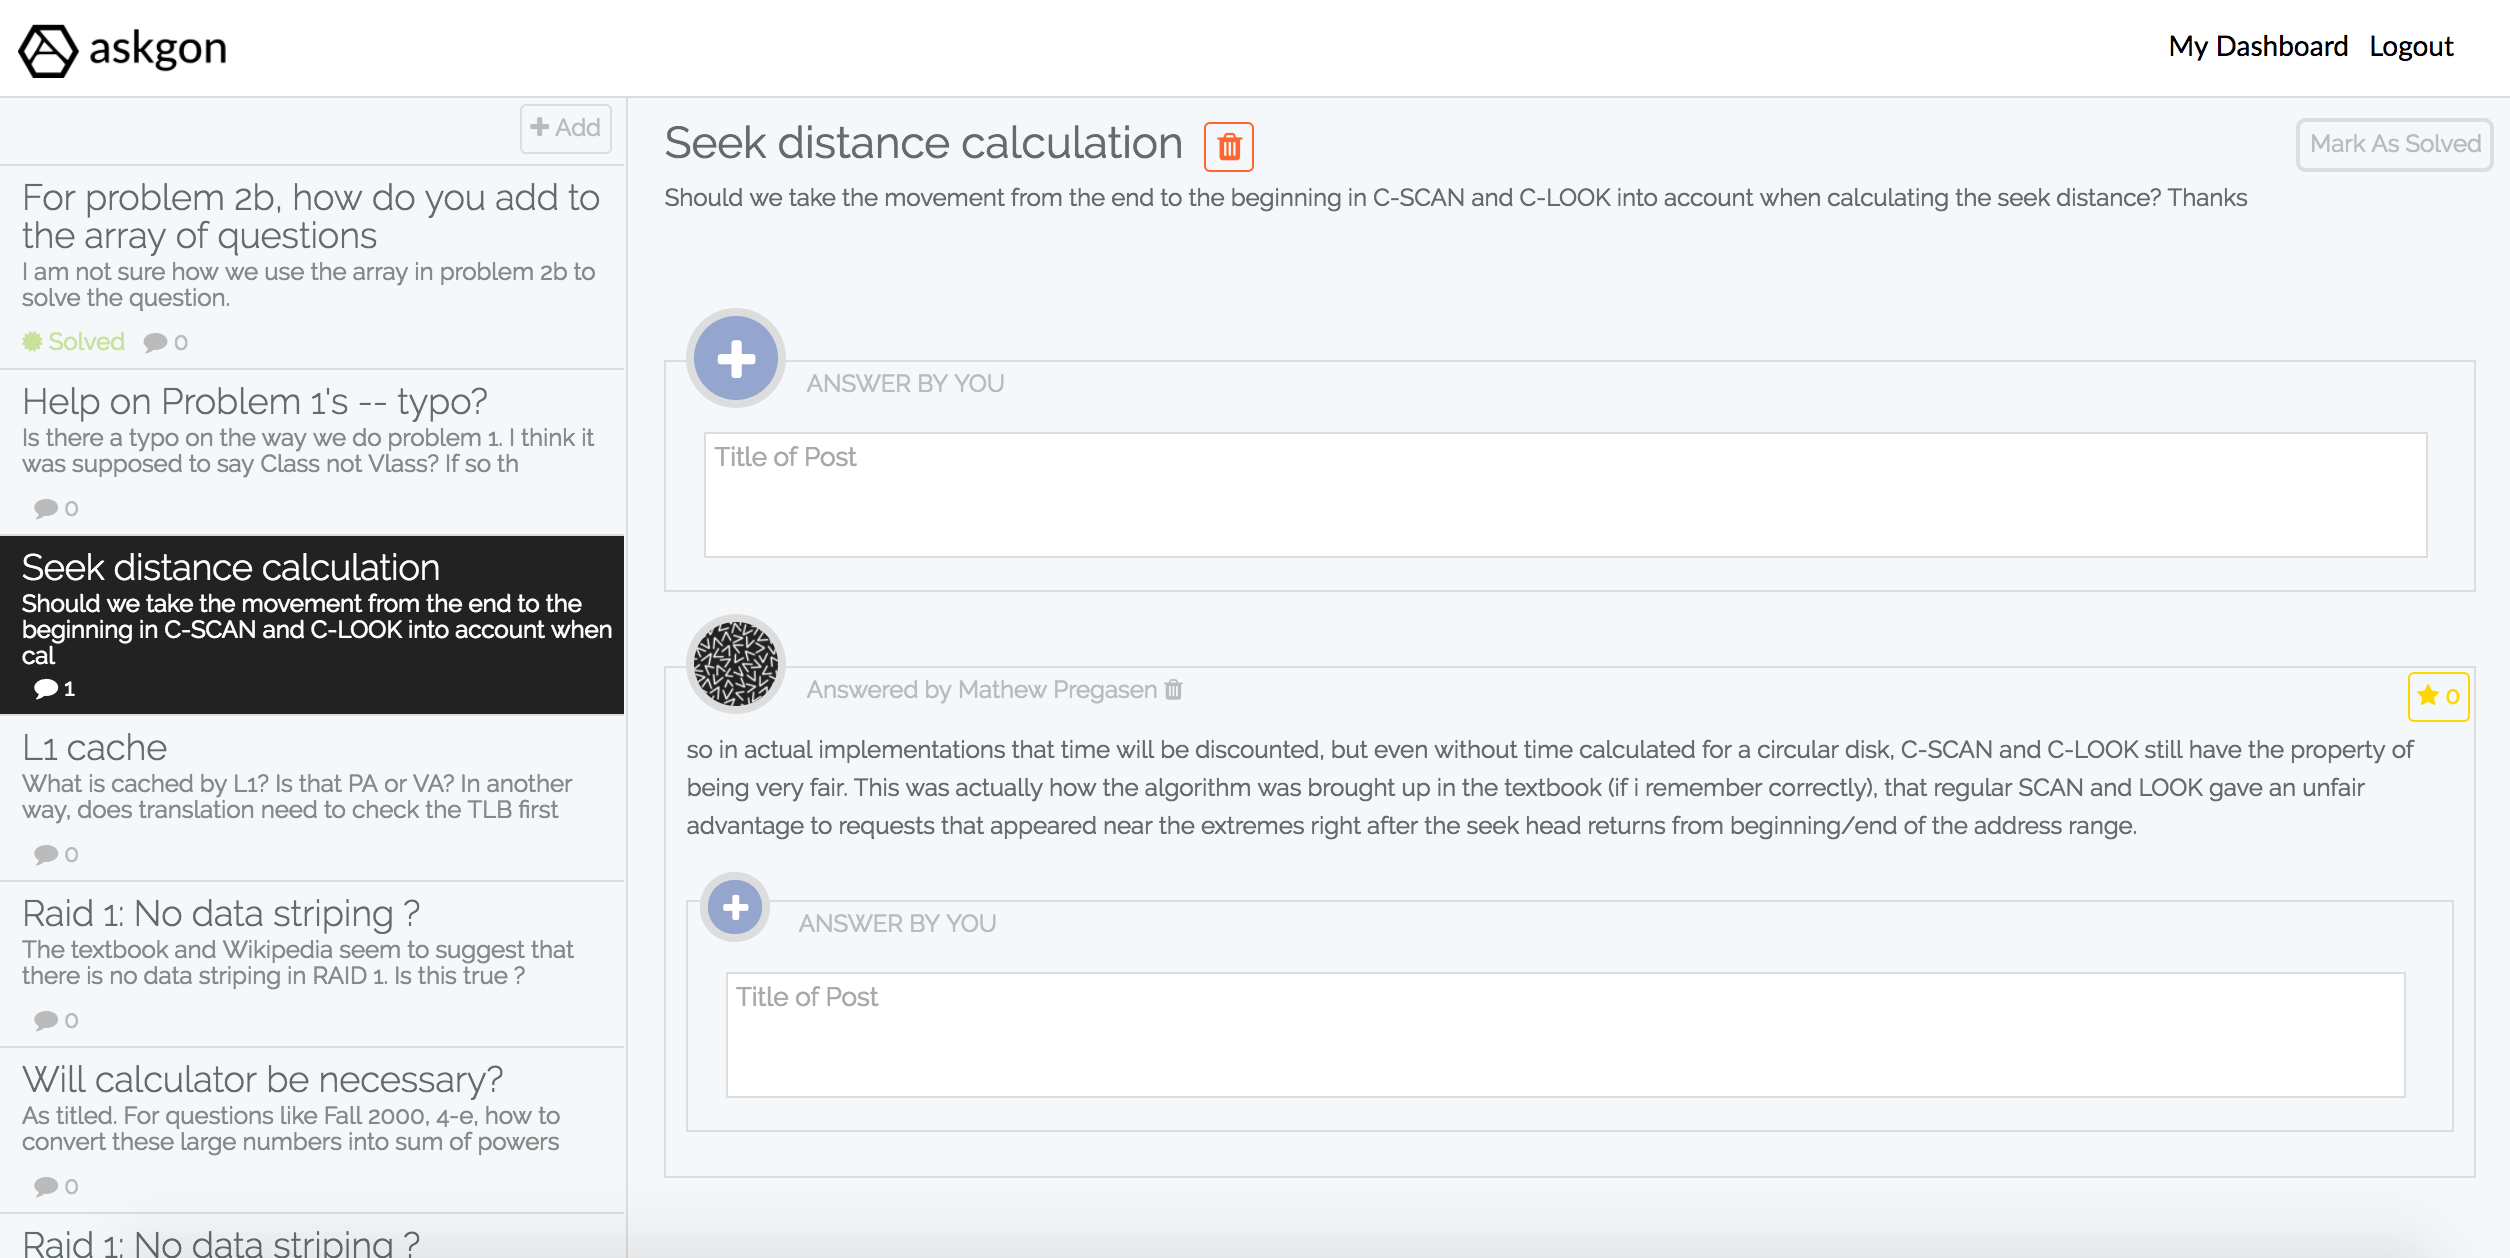
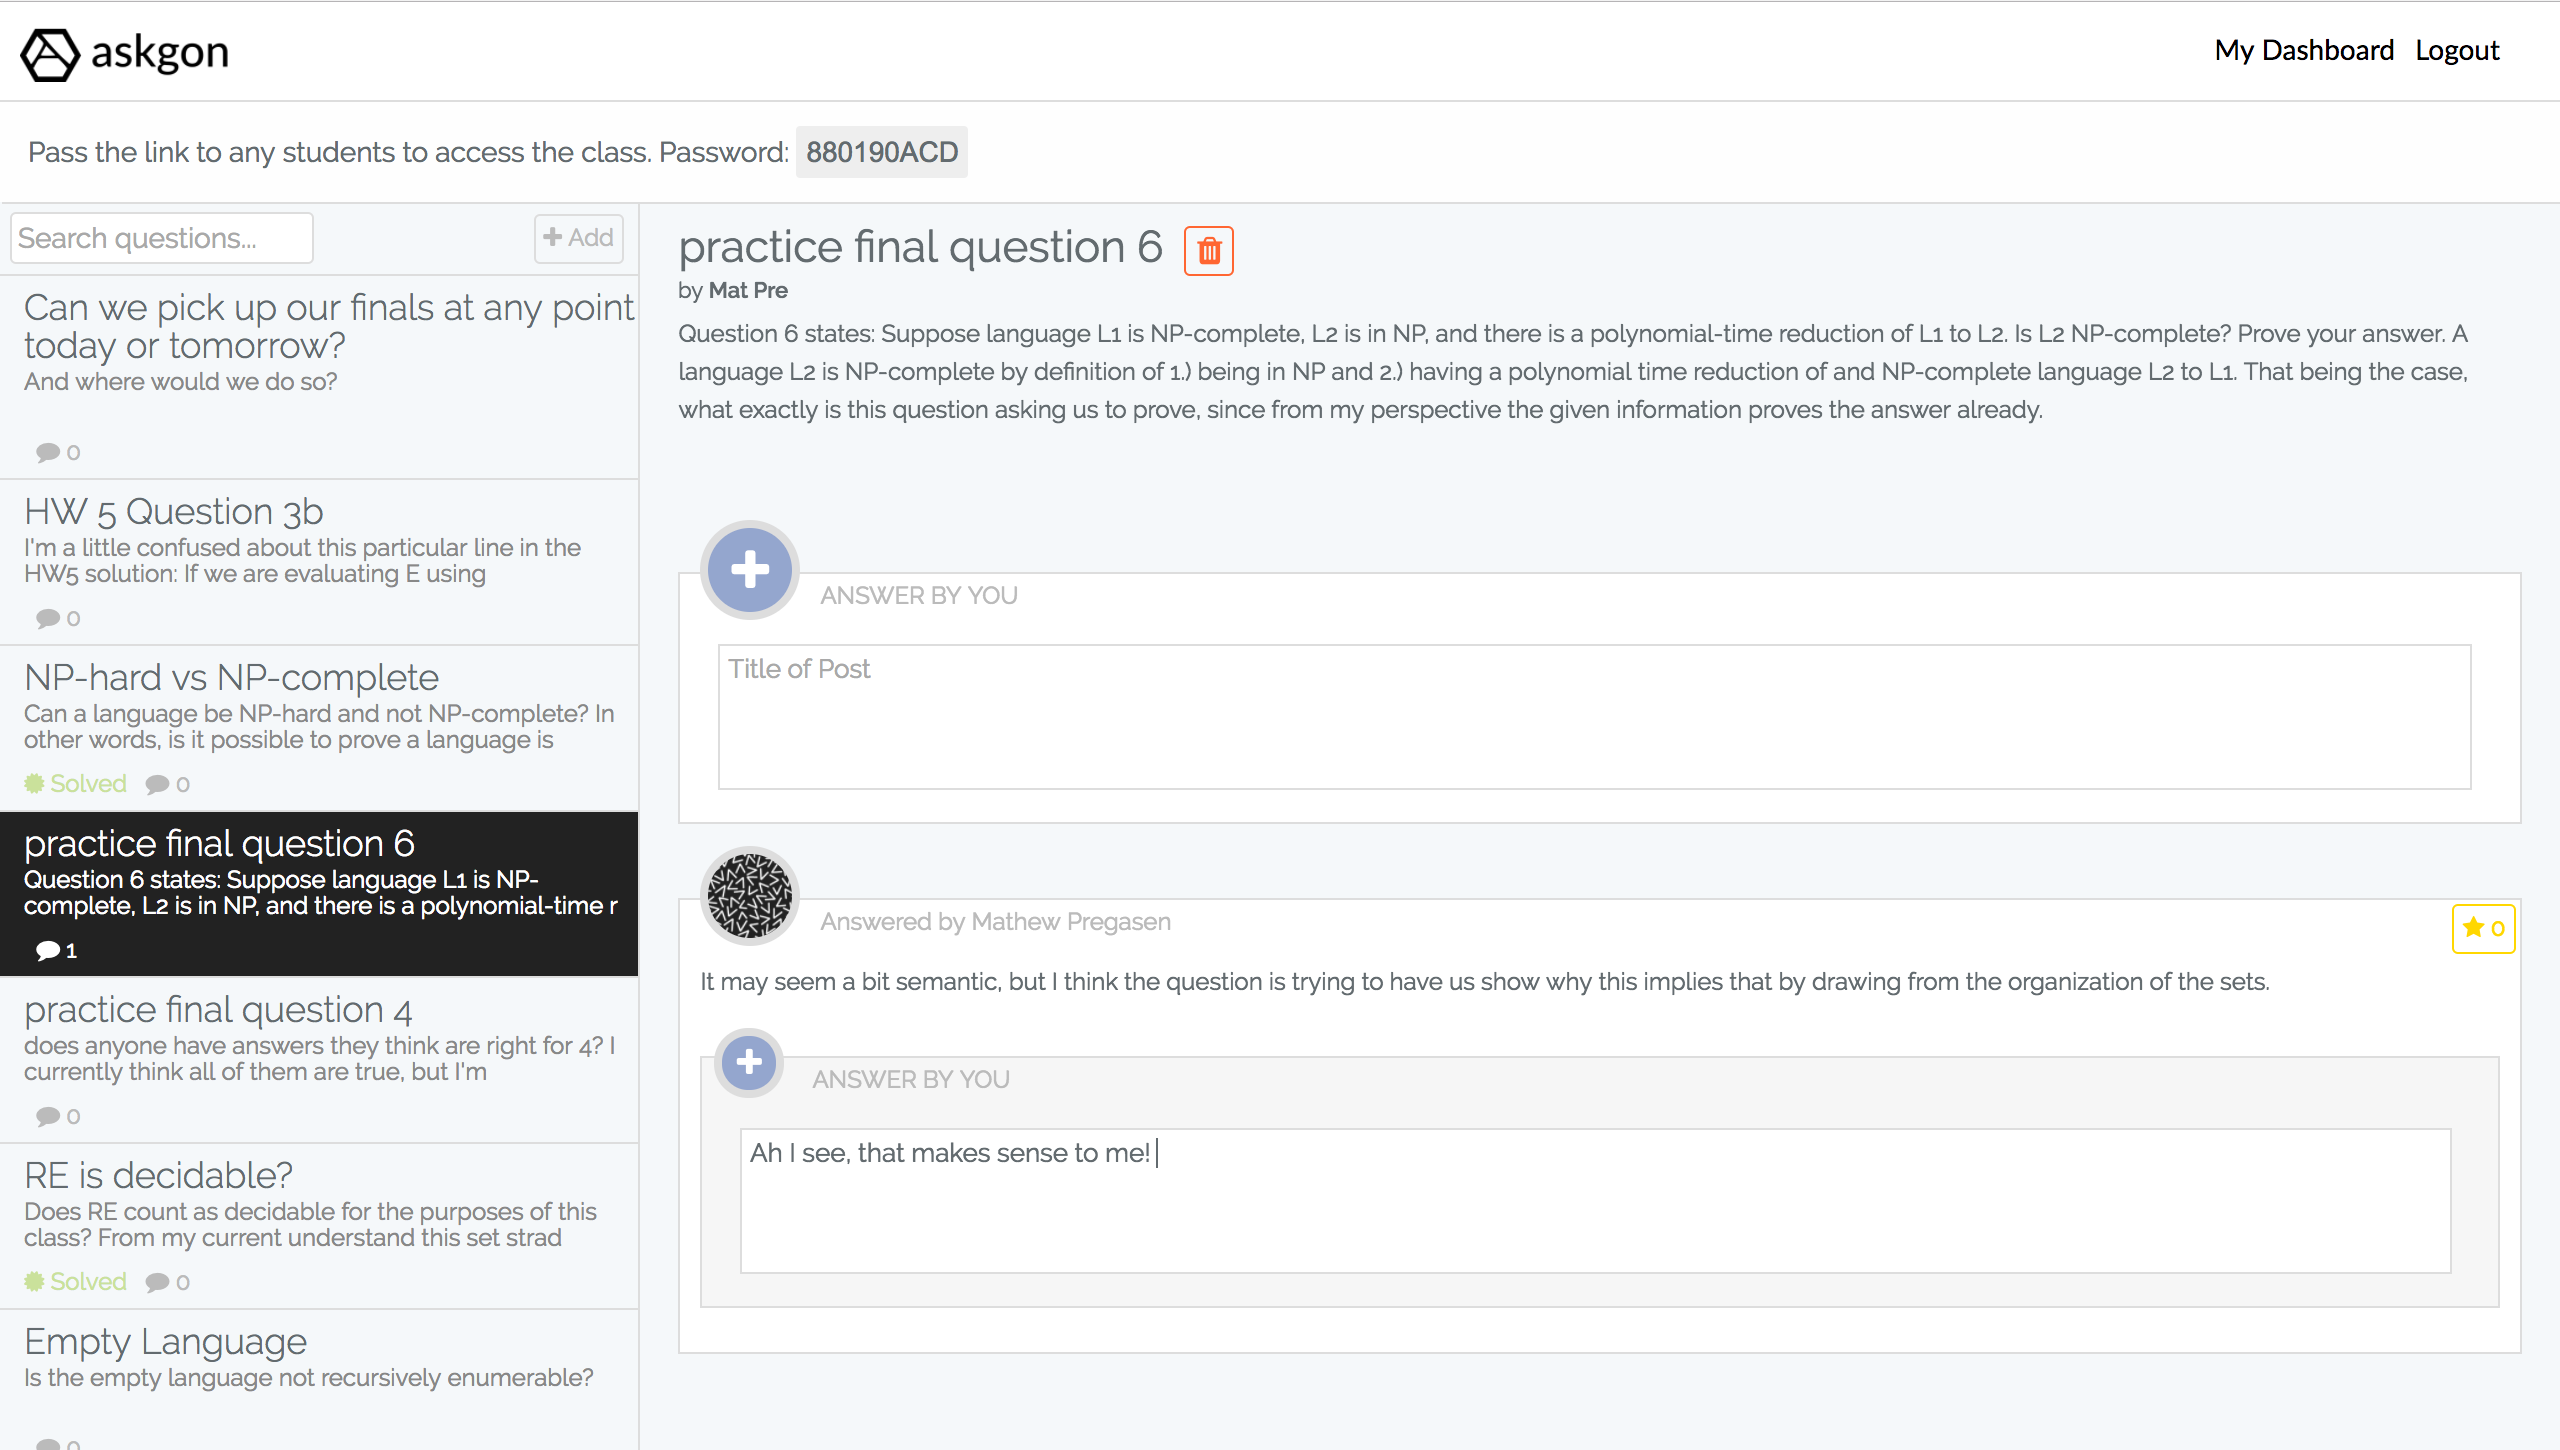
adding new aesthetics

diff --git a/resources/views/portal/qanda.blade.php b/resources/views/portal/qanda.blade.php
@@ -98,22 +98,18 @@ Pass the link to any students to access the class. Password: <span>{{$section->p
         </div>
         <div class="row">
         <input type="hidden" name="tags" v-model="newtags">
-
         <input type="checkbox" name="question" id="question" value="true">
           <label for="question" style="margin-top: 5px;
     float: left;margin-left:5px;margin-right:10px;"> This is a Question</label>
-
         <input type="checkbox" name="anonymous" id="anonymous" value="false">
         <label for="anonymous" style="margin-top: 5px;
         float: left;margin-left:5px;"> Anonymous Post</label>
-
         <input type="submit" value="POST TO PUBLIC">
         </div>
       </form>
     </div>
-
     <h1>@{{chosen.title}} <span v-if="chosen.owner == {{$user->id}}" v-on:click="remove()" style="padding-top: 3px;"><i class="fa fa-trash"></i></span></h1>
-    <h2>by <span v-if="chosen.name != '' && chosen.name">@{{chosen.name}}</span><span v-else>Anonymous</span></h2>
+    <h2>by <b><span v-if="chosen.name != '' && chosen.name">@{{chosen.name}}</span><span v-else>Anonymous</span></b></h2>
     <div class="row" style="margin-left:15px;margin-bottom:4px;">
     <div class="tag" v-for="tag in chosen.tags" v-on:click="tagsearch(tag)">
       #@{{tag}}
@@ -137,7 +133,6 @@ Pass the link to any students to access the class. Password: <span>{{$section->p
         <textarea placeholder="Title of Post" name="content" class="answer_content"></textarea>
         <div class="result answer_popup" style="display:none;"></div>
       </form>
-
     </div>
     <div class="answer" v-for="answer in answers">
       <div style="background-image:url('/profile.png');" class="image"></div>
@@ -147,10 +142,7 @@ Pass the link to any students to access the class. Password: <span>{{$section->p
       </div>
       <div class="stars" v-on:click="vote(answer.id)" v-if="answer.voted != true" style="cursor:pointer;"><i class="fa fa-star"></i> @{{answer.vote}}</div>
       <div class="stars" v-else style="background-color:gold;color:white;"><i class="fa fa-star"></i> @{{answer.vote}}</div>
-
       <p>@{{answer.content}}</p>
-
-
             <div class="answer" v-for="subanswer in answer.subanswers" style="margin-bottom:2px;marign-top:2px;">
               <div style="background-image:url('/profile.png');" class="image"></div>
               <div class="author" style="left:55px;">Answered by @{{subanswer.name}}
@@ -170,12 +162,8 @@ Pass the link to any students to access the class. Password: <span>{{$section->p
                 <textarea placeholder="Title of Post" name="content" v-model="answer.response" class="answer_content"></textarea>
                 <div class="result answer_popup" style="display:none !important;"></div>
               </form>
-
             </div>
     </div>
-
-
-
   </div>
 </section>
 <script>

diff --git a/app/Http/Controllers/MainController.php b/app/Http/Controllers/MainController.php
@@ -25,6 +25,9 @@ class MainController extends Controller
         $gates = [];
       }
       $keys = json_decode($user->keys);
+      if(!$keys){
+        $keys = array();
+      }
       foreach($keys as $key){
         if(in_array($key,$gates[0])){
           return true;
